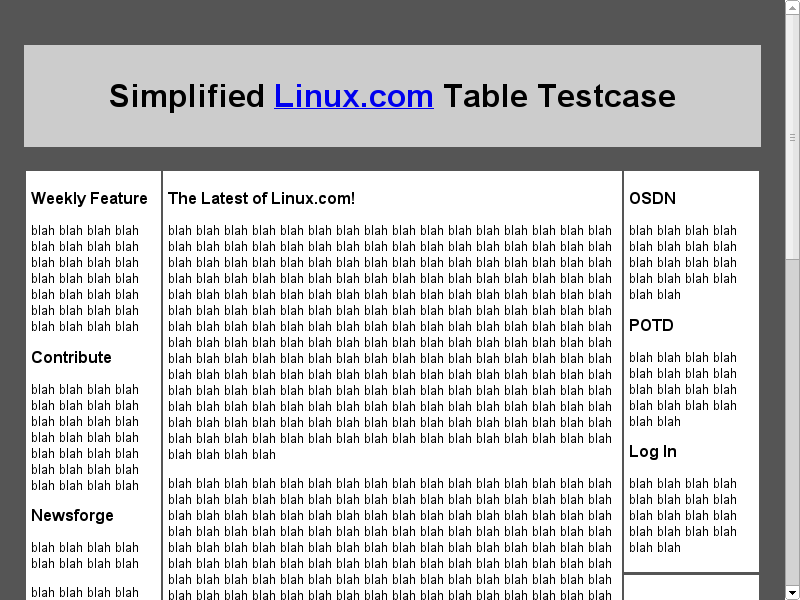
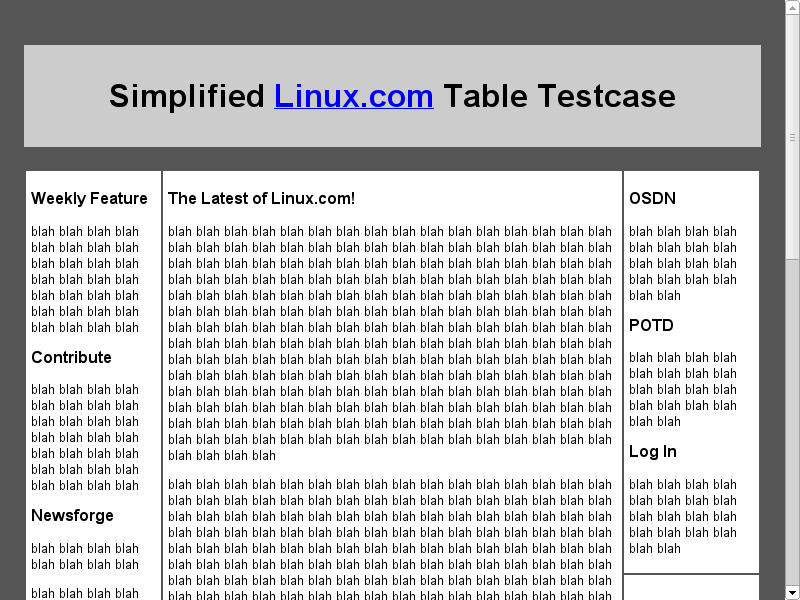
Inconsistent rounding in table layout causes background color to bleed through https://bugs.webkit.org/show_bug.cgi?id=91410
Reviewed by Eric Seidel.

Source/WebCore: 

At certain zoom levels a rounding error in the table layout code cases
the table background color to bleed through between cells. Tables layout
happens on pixel bounds however the paint offset wasn't correctly rounded.

Test: fast/sub-pixel/table-rows-no-gaps.html

* rendering/RenderTable.cpp:
(WebCore::RenderTable::paintObject):
Round paintOffset before passing it to the paint method of the children.

LayoutTests: 

Add test to ensure that the table background color doesn't bleed through
when the table and a cell are positioned on a subpixel bound.

* fast/sub-pixel/table-rows-no-gaps-expected.html: Added.
* fast/sub-pixel/table-rows-no-gaps.html: Added.
* platform/chromium-linux/css1/basic/inheritance-expected.png:
* platform/chromium-linux/plugins/embed-attributes-style-expected.png:
* platform/chromium-linux/svg/zoom/page/zoom-img-preserveAspectRatio-support-1-expected.png:
* platform/chromium-linux/svg/zoom/page/zoom-replaced-intrinsic-ratio-001-expected.png:
* platform/chromium-linux/svg/zoom/page/zoom-svg-through-object-with-absolute-size-2-expected.png:
* platform/chromium-linux/svg/zoom/page/zoom-svg-through-object-with-absolute-size-expected.png:
* platform/chromium-linux/svg/zoom/page/zoom-svg-through-object-with-percentage-size-expected.png:
* platform/chromium-linux/tables/mozilla/bugs/bug73321-expected.png:
Updated expectations to match new rounding logic. The new results better
[…]

diff --git a/LayoutTests/fast/sub-pixel/table-rows-no-gaps.html b/LayoutTests/fast/sub-pixel/table-rows-no-gaps.html
@@ -1,0 +1,22 @@
+<!DOCTYPE html>
+<html>
+    <head>
+        <style>
+            body { zoom: 1.5; }
+            #head { height: 35px; }
+            table { background: red; margin-top: 25px; }
+            td { background: white; }
+        </style>
+    </head>
+    <body>
+        <table cellpadding="0" cellspacing="0" width="100%">
+            <tr>
+                <td style="height:21px">first row</td>
+            </tr>
+            <tr>
+                <td>second row</td>
+            </tr>
+        </table>
+        There should be no red line between the rows.
+    </body>
+</html>

diff --git a/LayoutTests/fast/sub-pixel/table-rows-no-gaps-expected.html b/LayoutTests/fast/sub-pixel/table-rows-no-gaps-expected.html
@@ -1,0 +1,21 @@
+<!DOCTYPE html>
+<html>
+    <head>
+        <style>
+            body { zoom: 1.5; }
+            #head { height: 35px; }
+            table { background: white; margin-top: 25px; }
+        </style>
+    </head>
+    <body>
+        <table cellpadding="0" cellspacing="0" width="100%">
+            <tr>
+                <td style="height:21px">first row</td>
+            </tr>
+            <tr>
+                <td>second row</td>
+            </tr>
+        </table>
+        There should be no red line between the rows.
+    </body>
+</html>

diff --git a/Source/WebCore/rendering/RenderTable.cpp b/Source/WebCore/rendering/RenderTable.cpp
@@ -575,9 +575,11 @@ void RenderTable::paintObject(PaintInfo& paintInfo, const LayoutPoint& paintOffs
     info.phase = paintPhase;
     info.updatePaintingRootForChildren(this);
 
+    IntPoint alignedOffset = roundedIntPoint(paintOffset);
+
     for (RenderObject* child = firstChild(); child; child = child->nextSibling()) {
         if (child->isBox() && !toRenderBox(child)->hasSelfPaintingLayer() && (child->isTableSection() || child->isTableCaption())) {
-            LayoutPoint childPoint = flipForWritingModeForChild(toRenderBox(child), paintOffset);
+            LayoutPoint childPoint = flipForWritingModeForChild(toRenderBox(child), alignedOffset);
             child->paint(info, childPoint);
         }
     }
